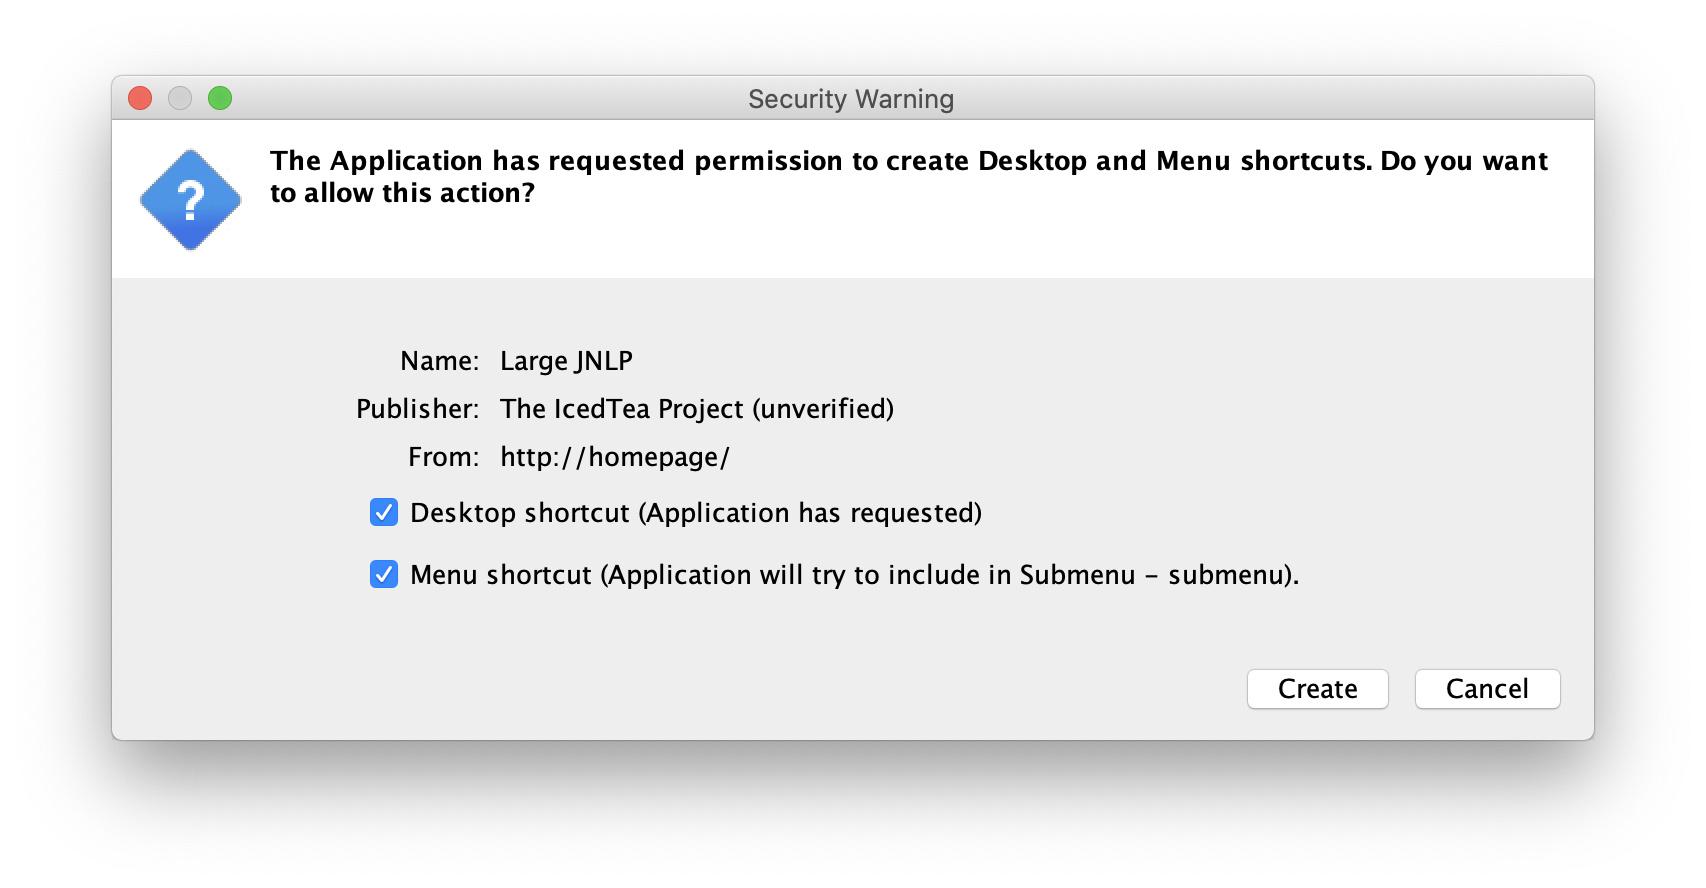
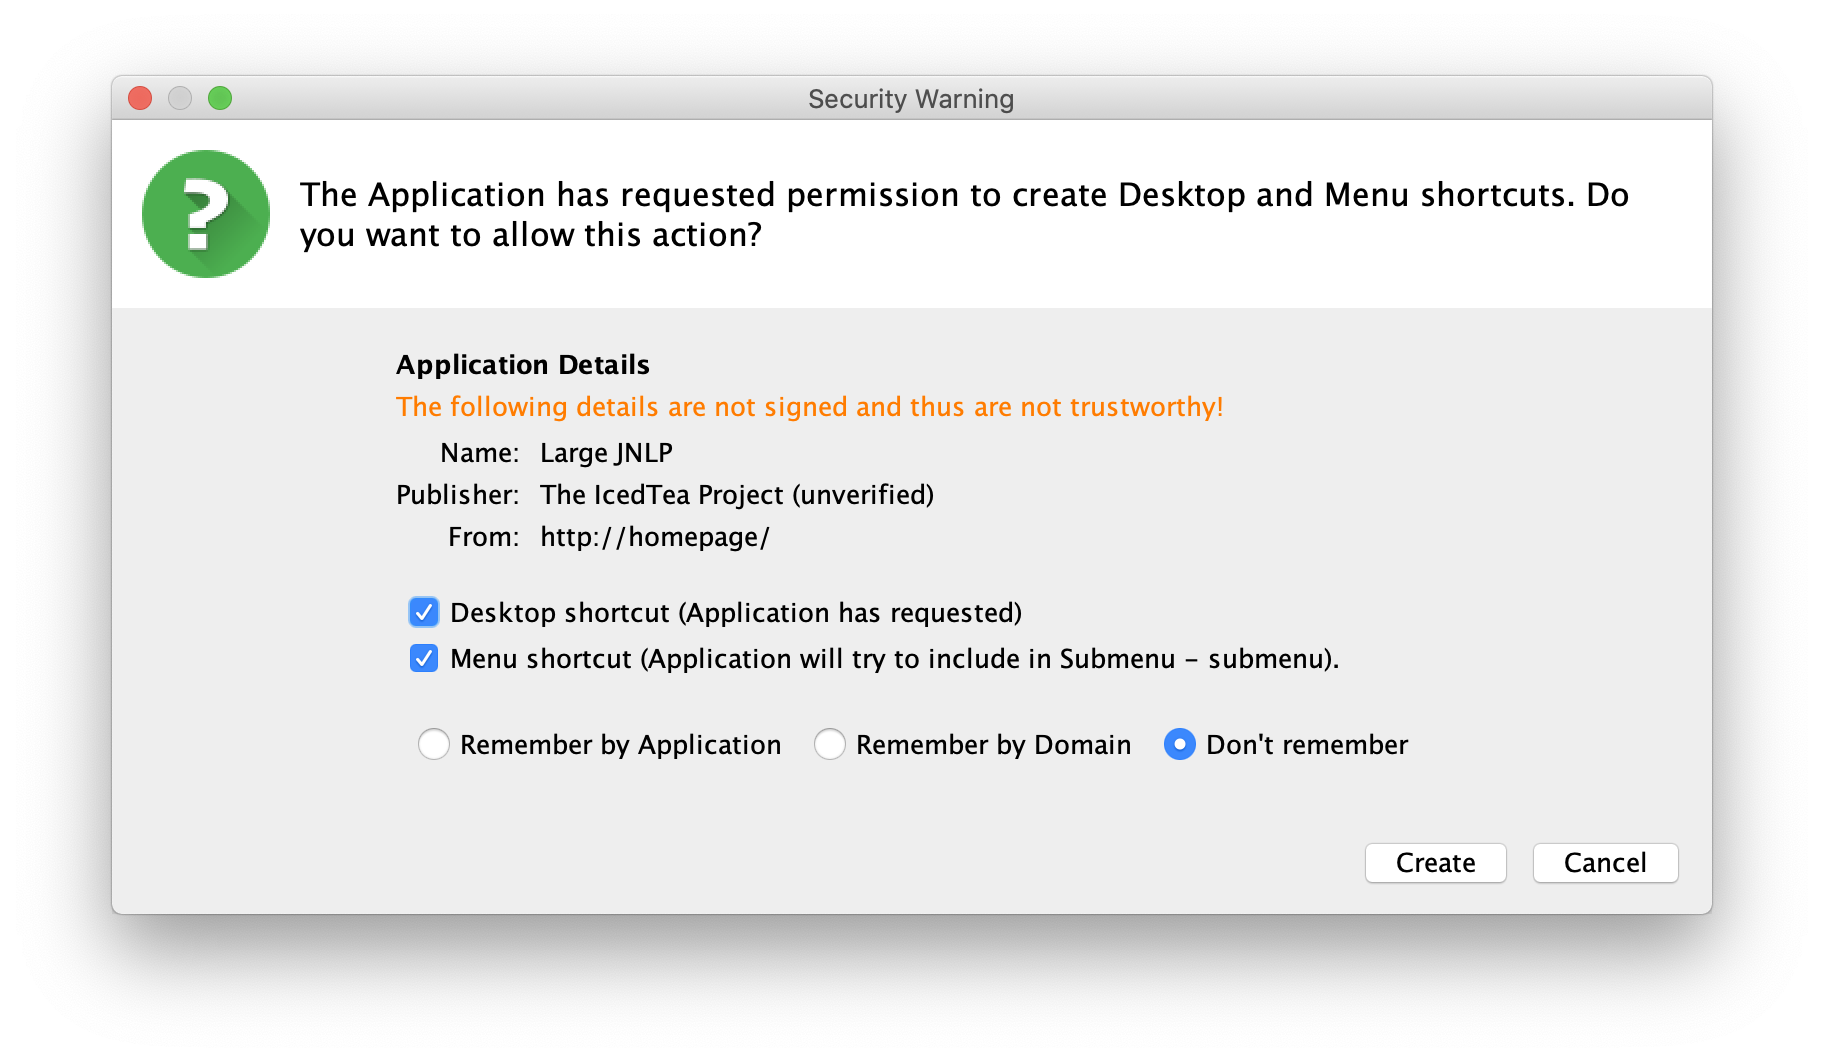
add dialog images referenced in javadoc

Changed region(s): [[0.0621, 0.0608, 0.9631, 0.8818], [0.2175, 0.3345, 0.7767, 0.7297], [0.2485, 0.6993, 0.4349, 0.7297]]

diff --git a/core/src/test/java/net/adoptopenjdk/icedteaweb/security/dialog/NewDialogFactoryTest.java b/core/src/test/java/net/adoptopenjdk/icedteaweb/security/dialog/NewDialogFactoryTest.java
@@ -47,15 +47,14 @@ public class NewDialogFactoryTest {
 
     public static void main(String[] args) throws Exception {
         // new NewDialogFactoryTest().showAccessWarningDialog();
-        new NewDialogFactoryTest().showCertWarningDialog();
+        // new NewDialogFactoryTest().showCertWarningDialog();
         // new NewDialogFactoryTest().showMoreInfoDialog();
-        // new NewDialogFactoryTest().showUnsignedWarningDialog();
         // new NewDialogFactoryTest().showPartiallySignedWarningDialog();
         // new NewDialogFactoryTest().showCertInfoDialog();
         // new NewDialogFactoryTest().showMissingPermissionsAttributeDialog();
         // new NewDialogFactoryTest().showMissingALACAttributeDialog();
         // new NewDialogFactoryTest().showMatchingALACAttributeDialog();
-        // new NewDialogFactoryTest().showAuthenticationPrompt();
+        new NewDialogFactoryTest().showAuthenticationPrompt();
     }
 
     private void showAccessWarningDialog() {

diff --git a/core/src/main/java/net/adoptopenjdk/icedteaweb/security/dialog/MissingALACAttributeDialog.java b/core/src/main/java/net/adoptopenjdk/icedteaweb/security/dialog/MissingALACAttributeDialog.java
@@ -16,7 +16,10 @@ import java.util.Set;
  * correspond to the locations of the JAR file and the JNLP file. The user can decide to run the
  * application and remember the decision to show this dialog again for the application or domain.
  *
- * The ALAC attribute identifies the locations where your signed application is expected to be found.
+ * The ALAC attribute identifies the locations where your signed application is expected to be
+ * found.
+ *
+ * <img src="doc-files/MissingALACAttributeDialog.png"></img>
  */
 public class MissingALACAttributeDialog extends MissingAttributeDialog {
     private static final Logger LOG = LoggerFactory.getLogger(MissingALACAttributeDialog.class);

diff --git a/core/src/main/java/net/adoptopenjdk/icedteaweb/security/dialog/MatchingALACAttributeDialog.java b/core/src/main/java/net/adoptopenjdk/icedteaweb/security/dialog/MatchingALACAttributeDialog.java
@@ -13,7 +13,10 @@ import java.net.URL;
 import java.util.Set;
 
 /**
- * The ALAC attribute identifies the locations where your signed application is expected to be found.
+ * The ALAC attribute identifies the locations where your signed application is expected to
+ * be found.
+ *
+ * <img src="doc-files/MatchingALACAttributeDialog.png"></img>
  */
 public class MatchingALACAttributeDialog extends MissingAttributeDialog {
     private static final Logger LOG = LoggerFactory.getLogger(MatchingALACAttributeDialog.class);

diff --git a/core/src/main/java/net/adoptopenjdk/icedteaweb/security/dialog/MissingPermissionsAttributeDialog.java b/core/src/main/java/net/adoptopenjdk/icedteaweb/security/dialog/MissingPermissionsAttributeDialog.java
@@ -15,6 +15,8 @@ import java.net.URL;
  *
  * The Permissions attribute is used to verify that the permissions level requested by the application when
  * it runs matches the permissions level that was set when the JAR file was created.
+ *
+ * <img src="doc-files/MissingPermissionsAttributeDialog.png"></img>
  */
 public class MissingPermissionsAttributeDialog extends MissingAttributeDialog {
     private static final Logger LOG = LoggerFactory.getLogger(MissingPermissionsAttributeDialog.class);

diff --git a/core/src/main/java/net/adoptopenjdk/icedteaweb/security/dialog/UnsignedWarningDialog.java b/core/src/main/java/net/adoptopenjdk/icedteaweb/security/dialog/UnsignedWarningDialog.java
@@ -19,6 +19,9 @@ import java.util.List;
 import static java.util.Optional.ofNullable;
 import static net.adoptopenjdk.icedteaweb.ui.swing.SwingUtils.htmlWrap;
 
+/**
+ *  <img src="doc-files/UnsignedWarningDialog.png"></img>
+ */
 public class UnsignedWarningDialog extends BasicSecurityDialog<RememberableResult<AllowDeny>> {
     private static final Logger LOG = LoggerFactory.getLogger(UnsignedWarningDialog.class);
     private static final Translator TRANSLATOR = Translator.getInstance();

diff --git a/core/src/main/java/net/adoptopenjdk/icedteaweb/security/dialog/CertWarningDetailsDialog.java b/core/src/main/java/net/adoptopenjdk/icedteaweb/security/dialog/CertWarningDetailsDialog.java
@@ -44,6 +44,9 @@ import java.util.List;
 import static net.adoptopenjdk.icedteaweb.i18n.Translator.R;
 import static net.adoptopenjdk.icedteaweb.ui.swing.SwingUtils.htmlWrap;
 
+/**
+ * <img src="doc-files/CertWarningDetailsDialog.png"></img>
+ */
 public class CertWarningDetailsDialog extends DialogWithResult<Void> {
     private static final Logger LOG = LoggerFactory.getLogger(CertWarningDetailsDialog.class);
     private static final Translator TRANSLATOR = Translator.getInstance();

diff --git a/core/src/main/java/net/adoptopenjdk/icedteaweb/security/dialog/PartiallySignedWarningDialog.java b/core/src/main/java/net/adoptopenjdk/icedteaweb/security/dialog/PartiallySignedWarningDialog.java
@@ -21,6 +21,9 @@ import java.awt.Dimension;
 import java.util.Arrays;
 import java.util.List;
 
+/**
+ *  <img src="doc-files/PartiallySignedWarningDialog.png"></img>
+ */
 public class PartiallySignedWarningDialog extends BasicSecurityDialog<RememberableResult<AllowDenySandbox>> {
     private static final Logger LOG = LoggerFactory.getLogger(PartiallySignedWarningDialog.class);
     private static final Translator TRANSLATOR = Translator.getInstance();

diff --git a/core/src/main/java/net/adoptopenjdk/icedteaweb/security/dialog/AccessWarningDialog.java b/core/src/main/java/net/adoptopenjdk/icedteaweb/security/dialog/AccessWarningDialog.java
@@ -15,6 +15,9 @@ import javax.swing.JComponent;
 import java.util.Arrays;
 import java.util.List;
 
+/**
+ * <img src="doc-files/AccessWarningDialog.png"></img>
+ */
 public class AccessWarningDialog extends BasicSecurityDialog<RememberableResult<AllowDeny>> {
     private static final Logger LOG = LoggerFactory.getLogger(AccessWarningDialog.class);
     private static final Translator TRANSLATOR = Translator.getInstance();

diff --git a/core/src/main/java/net/adoptopenjdk/icedteaweb/security/dialog/AuthenticationDialog.java b/core/src/main/java/net/adoptopenjdk/icedteaweb/security/dialog/AuthenticationDialog.java
@@ -17,6 +17,9 @@ import java.util.Arrays;
 import java.util.List;
 import java.util.Optional;
 
+/**
+ * <img src="doc-files/AuthenticationDialog.png"></img>
+ */
 public class AuthenticationDialog extends BasicSecurityDialog<Optional<NamePassword>> {
     private static final Logger LOG = LoggerFactory.getLogger(AuthenticationDialog.class);
     private static final Translator TRANSLATOR = Translator.getInstance();

diff --git a/core/src/main/java/net/adoptopenjdk/icedteaweb/security/dialog/HttpsCertTrustDialog.java b/core/src/main/java/net/adoptopenjdk/icedteaweb/security/dialog/HttpsCertTrustDialog.java
@@ -19,6 +19,9 @@ import java.util.Arrays;
 import java.util.List;
 import java.util.Optional;
 
+/**
+ *  <img src="doc-files/HttpsCertTrustDialog.png"></img>
+ */
 public class HttpsCertTrustDialog extends CertWarningDialog {
     private static final Logger LOG = LoggerFactory.getLogger(HttpsCertTrustDialog.class);
     private static final Translator TRANSLATOR = Translator.getInstance();

diff --git a/core/src/main/java/net/adoptopenjdk/icedteaweb/security/dialog/CertInfoDialog.java b/core/src/main/java/net/adoptopenjdk/icedteaweb/security/dialog/CertInfoDialog.java
@@ -35,6 +35,9 @@ import java.util.List;
 
 import static net.adoptopenjdk.icedteaweb.i18n.Translator.R;
 
+/**
+ * <img src="doc-files/CertInfoDialog.png"></img>
+ */
 public class CertInfoDialog extends DialogWithResult<Void> {
     private static final Logger LOG = LoggerFactory.getLogger(CertInfoDialog.class);
     private static final Translator TRANSLATOR = Translator.getInstance();

diff --git a/core/src/main/java/net/adoptopenjdk/icedteaweb/security/dialog/JarCertWarningDialog.java b/core/src/main/java/net/adoptopenjdk/icedteaweb/security/dialog/JarCertWarningDialog.java
@@ -21,6 +21,8 @@ import java.util.List;
 
 /**
  * TODO: check if advancedOptions (temporary permissions) should still be supported
+ *
+ * <img src="doc-files/JarCertWarningDialog.png"></img>
 */
 public class JarCertWarningDialog extends CertWarningDialog {
     private static final Logger LOG = LoggerFactory.getLogger(JarCertWarningDialog.class);
